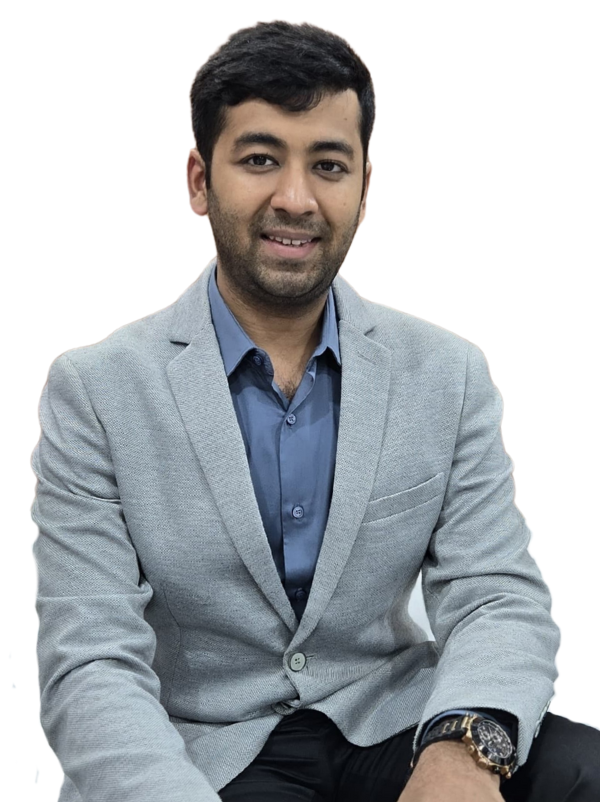
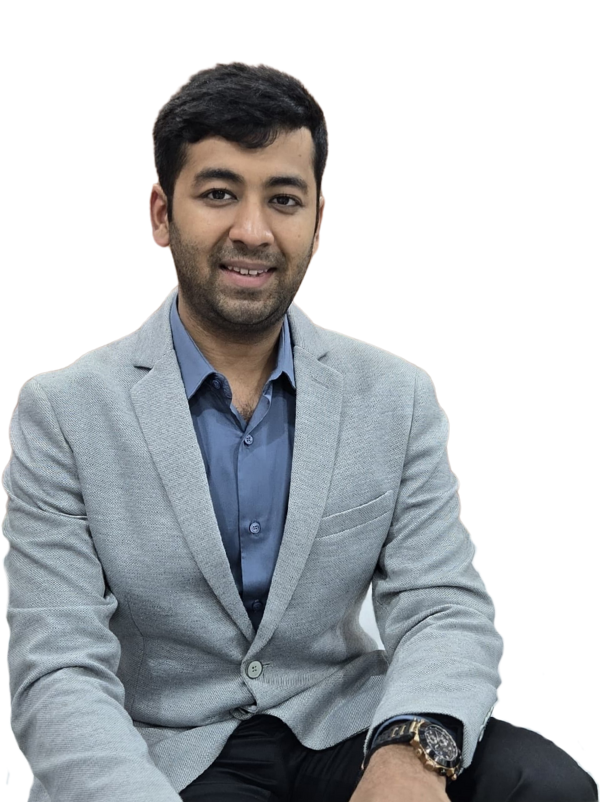
initial altering

diff --git a/index.html b/index.html
@@ -9,7 +9,7 @@
     <meta name="description" content="Learna - Education HTML Template">
 
     <!-- ========== Page Title ========== -->
-    <title>Learna - Education HTML Template</title>
+    <title>The Sigma Skool</title>
 
     <!-- ========== Favicon Icon ========== -->
     <link rel="shortcut icon" href="assets/img/favicon.png" type="image/x-icon">
@@ -38,24 +38,24 @@
             <div class="animation-preloader">
                 <div class="spinner"></div>
                 <div class="txt-loading">
-                    <span data-text-preloader="E" class="letters-loading">
-                        E
-                    </span>
-                    <span data-text-preloader="D" class="letters-loading">
-                        D
-                    </span>
-                    <span data-text-preloader="U" class="letters-loading">
-                        U
-                    </span>
-                    <span data-text-preloader="F" class="letters-loading">
-                        F
+                    <span data-text-preloader="S" class="letters-loading">
+                        S
                     </span>
                     <span data-text-preloader="I" class="letters-loading">
                         I
                     </span>
-                    <span data-text-preloader="X" class="letters-loading">
-                        X
+                    <span data-text-preloader="G" class="letters-loading">
+                        G
                     </span>
+                    <span data-text-preloader="M" class="letters-loading">
+                        M
+                    </span>
+                    <span data-text-preloader="M" class="letters-loading">
+                        A
+                    </span>
+                    <!-- <span data-text-preloader="X" class="letters-loading">
+                        X
+                    </span> -->
                 </div>
             </div>
             <div class="loader">
@@ -91,19 +91,19 @@
                     <ul class="item-flex">
                         <li>
                              <a href="tel:+4733378901"> 
-                                <img src="assets/img/icon/2.png" alt="Icon"> Phone: +4733378901
+                                <img src="assets/img/icon/2.png" alt="Icon"> Phone: 9542141419
                             </a>
                         </li>
                         <li>
                             <a href="mailto:name@email.com">
-                                <img src="assets/img/icon/3.png" alt="Icon"> Email: edufik@info.com
+                                <img src="assets/img/icon/3.png" alt="Icon"> Email: support@thesigmaskool.com
                             </a>
                         </li>
                     </ul>
                 </div>
                 <div class="col-lg-5 text-end">
                     <div class="item-flex">
-                        <div class="dropdown">
+                        <!-- <div class="dropdown">
                             <button class="btn btn-secondary dropdown-toggle" type="button" id="dropdownMenuButton1" data-bs-toggle="dropdown" aria-expanded="false">
                                 <img src="assets/img/icon/flag.png" alt="Image Not Found">
                                 English <i class="fas fa-angle-down"></i>
@@ -112,10 +112,10 @@
                               <li><a class="dropdown-item" href="#">Spanish</a></li>
                               <li><a class="dropdown-item" href="#">Arabic</a></li>
                             </ul>
-                        </div>
-                        <div>
+                        </div> -->
+                        <!-- <div>
                             <a href="#"><img src="assets/img/icon/1.png" alt="Icon"> Admin</a>
-                        </div>
+                        </div> -->
                     </div>
                 </div>
             </div>
@@ -397,8 +397,8 @@
                 <div class="row align-items-center">
                     <div class="col-lg-7 pr-60 pr-md-15 pr-xs-15">
                         <div class="info">
-                            <h4><img src="assets/img/shape/91.png" alt="Image Not Found"> Discover 20,000+ World-Class Courses</h4>
-                            <h2>Learn <strong>Smarter</strong> Achieve knowledge</h2>
+                            <h4><img src="assets/img/shape/91.png" alt="Image Not Found"> Top-Tier Language Training</h4>
+                            <h2>Elevate <strong>Your Language</strong> Skills Intelligently</h2>
                             <p>
                                 Expand your knowledge and open doors to exciting careers with our online education platform.
                             </p>
@@ -407,7 +407,7 @@
                     </div>
                     <div class="col-lg-5">
                         <div class="thumb">
-                            <img src="assets/img/illustration/1.png" alt="Image Not Found">
+                            <img src="assets\img\illustration\shubham.png" alt="Image Not Found">
                             <img src="assets/img/shape/92.png" alt="Image Not Found">
                             <div class="card-style-seven">
                                 <h2>4.9</h2>
